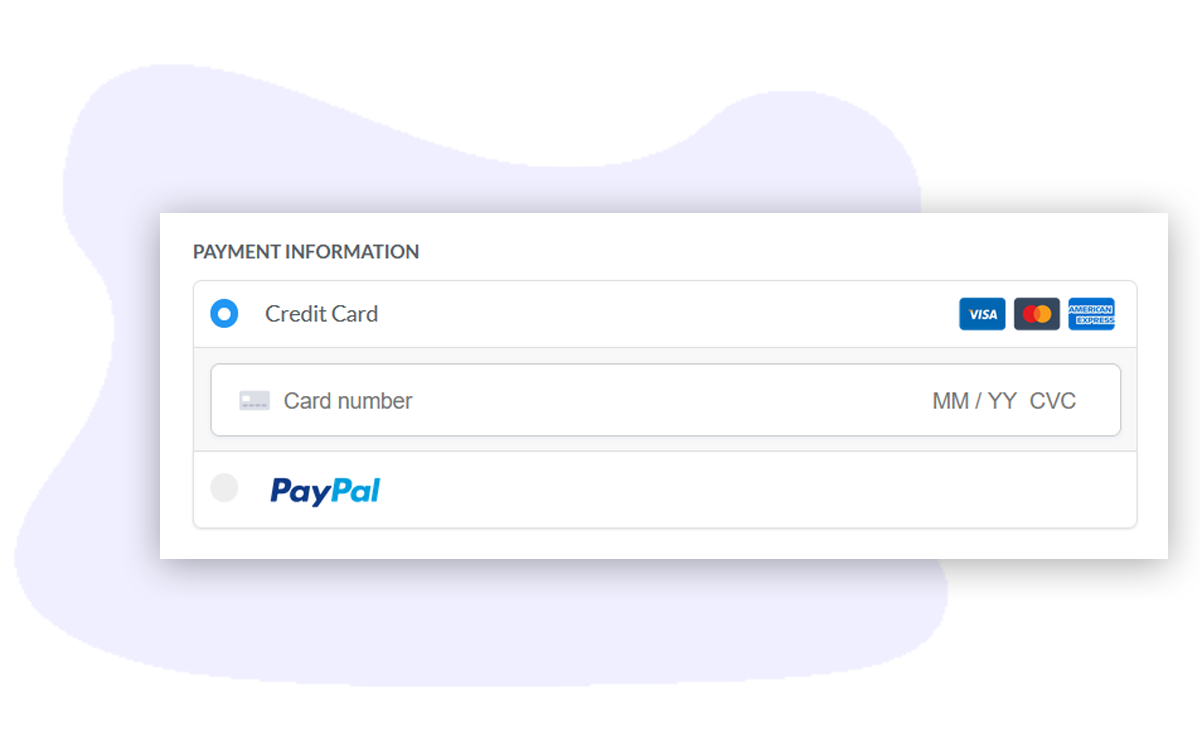
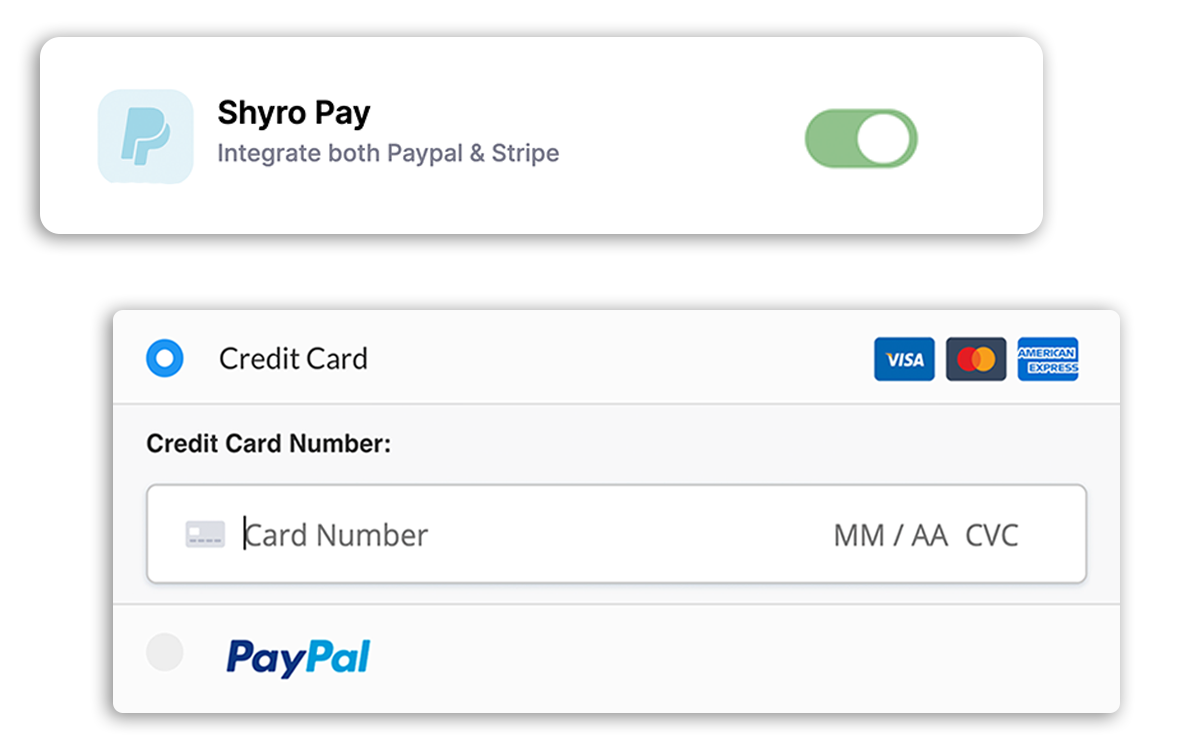
change screen shots // docs under development msg

diff --git a/src/views/global.css b/src/views/global.css
@@ -2306,3 +2306,17 @@ cursor: not-allowed;
 	color: #AAA;
 	font-weight: 300;
 	float: right;
+}
+
+.documentation {
+	font-size: 20px;
+	color: #333;
+}
+
+.documentation a {
+	color: #6C5DD3; text-decoration: none;
+}
+
+.documentation a:hover {
+	color: #333; text-decoration: none;
+}
